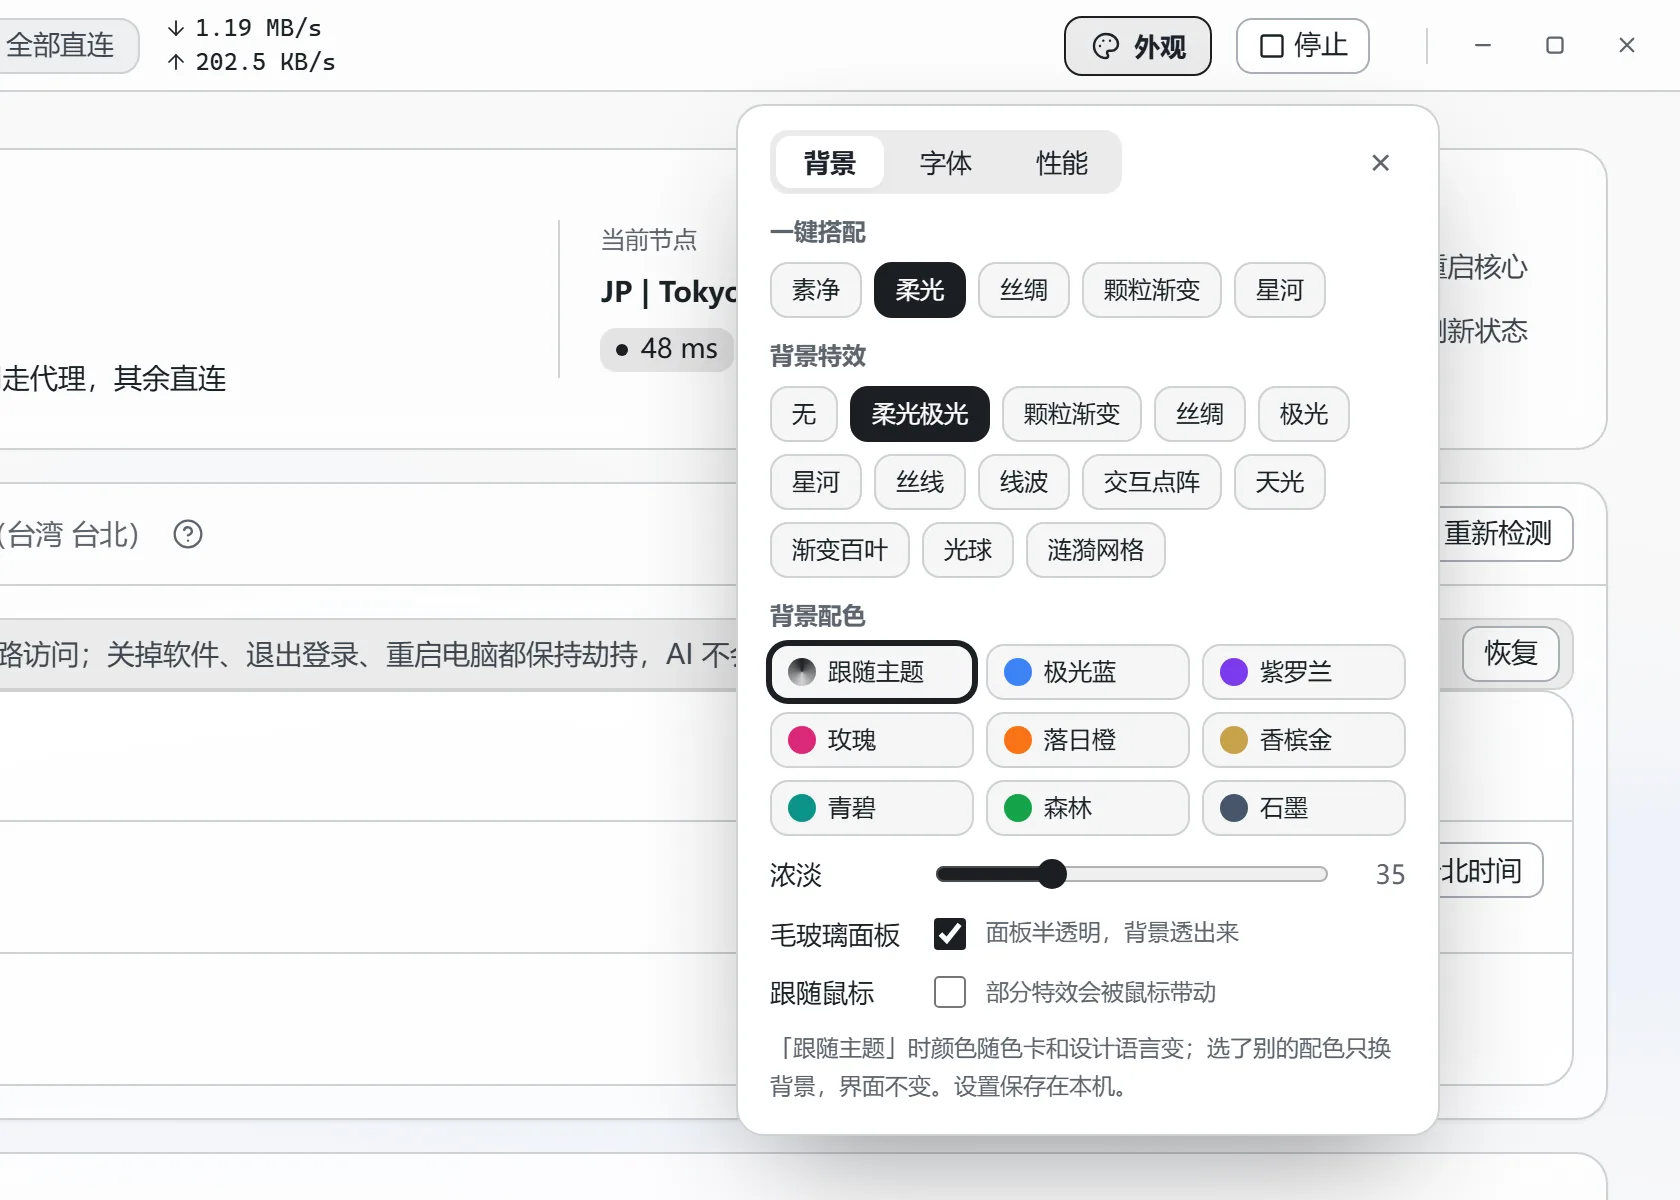
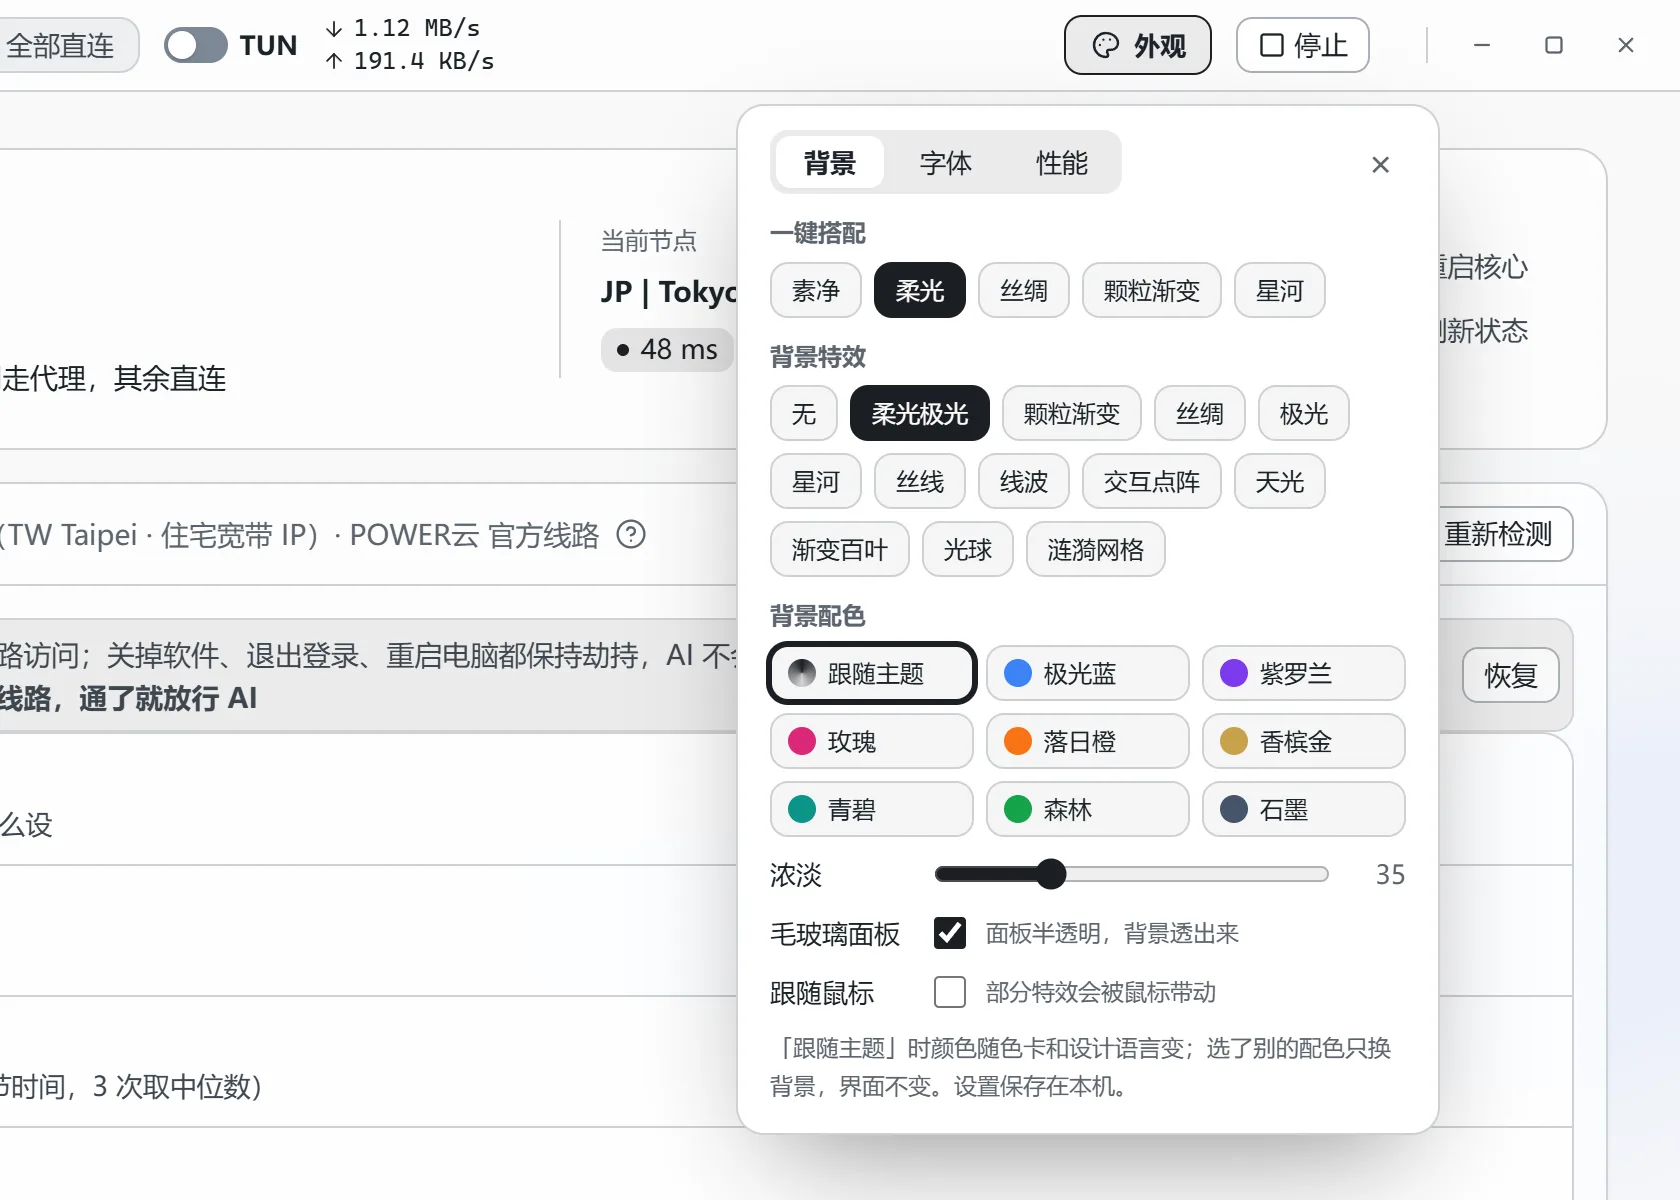
feat(官网): 截图换成最新界面，功能区文案更新

diff --git a/website/src/slots/tour.tsx b/website/src/slots/tour.tsx
@@ -29,7 +29,7 @@ const ROWS: Row[] = [
   },
   {
     title: "换个顺眼的样子",
-    body: "v1.9.80 起整套界面重新设计：顶栏切节点、切「按规则 / 全部代理 / 全部直连」、看实时网速；浅色和深色都重新配了色。",
+    body: "顶栏就能切节点、切「按规则 / 全部代理 / 全部直连」、开关整机接管（TUN）、看实时网速；浅色和深色各有一套配色。",
     points: [
       "右上角「外观」可以换背景特效、背景颜色、字体和字号、画质。",
       "窗口不在前台、一分钟没操作或用电池时，背景自动暂停省电。",
